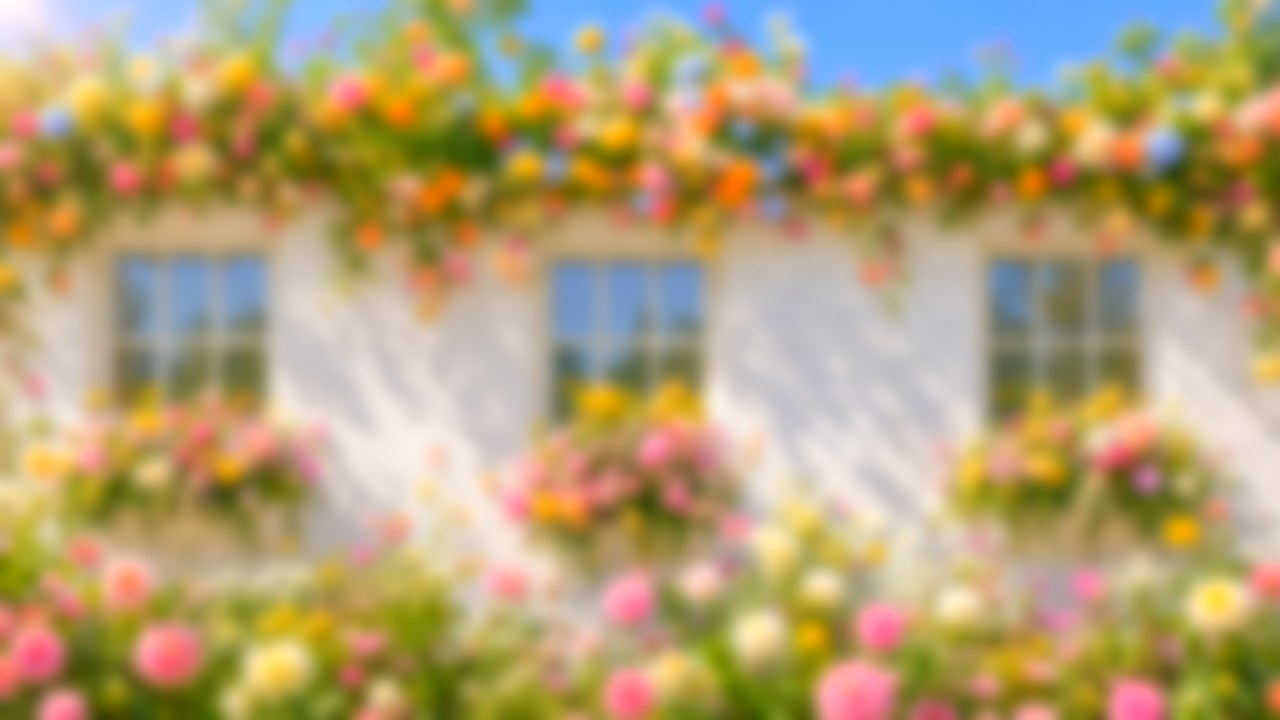
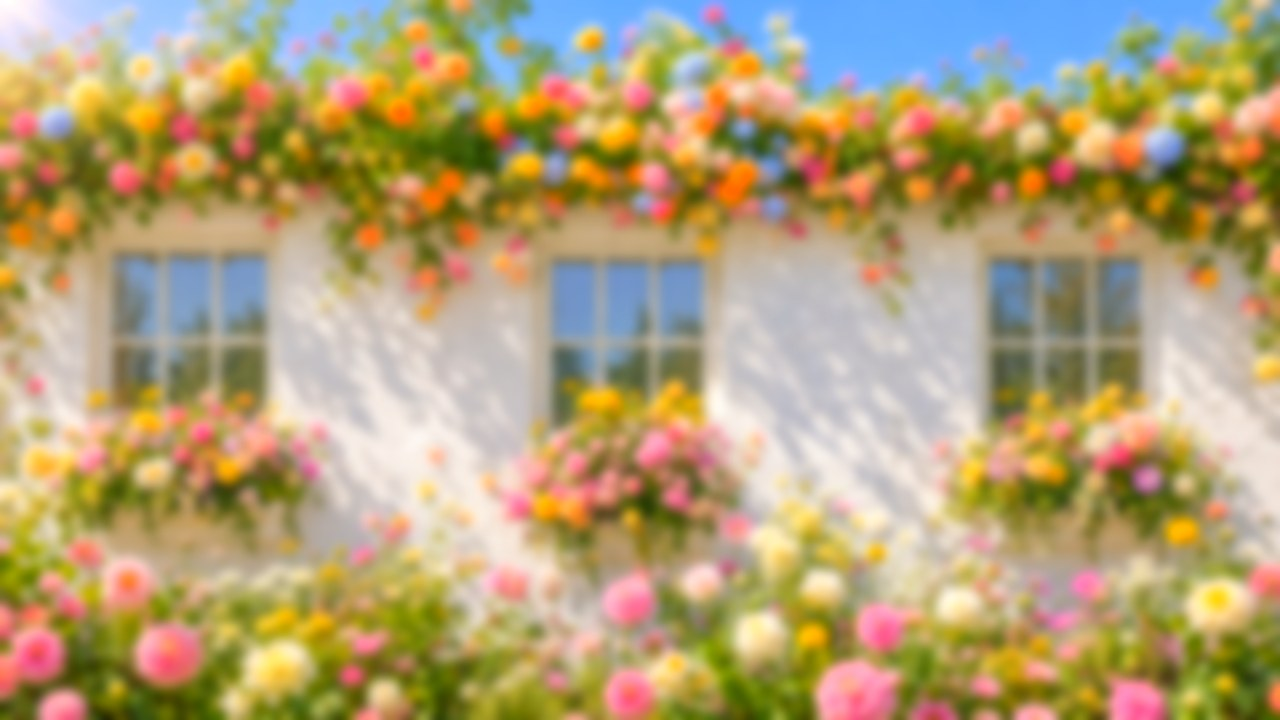
Screensaver blur 8px

diff --git a/src/tvui/static/index.html b/src/tvui/static/index.html
@@ -79,7 +79,7 @@
     background-color: #f6f3ee; background-image: url(/saver.jpg); background-repeat: no-repeat;
     background-position: center; -webkit-background-size: cover; background-size: cover; }
   #saver.on { display: block; }
-  /* The photo behind the text is blurred 12px, saturate 160%, brightness 104% across the whole
+  /* The photo behind the text is blurred 8px, saturate 160%, brightness 104% across the whole
      screen (baked into saver.jpg: backdrop-filter isn't supported on this TV). */
   #saver .wall, #saver .right { position: absolute; width: 16rem; text-align: center;
     text-shadow: 0 0 .9rem rgba(255,255,255,.9), 0 0 .25rem rgba(255,255,255,.8); }
